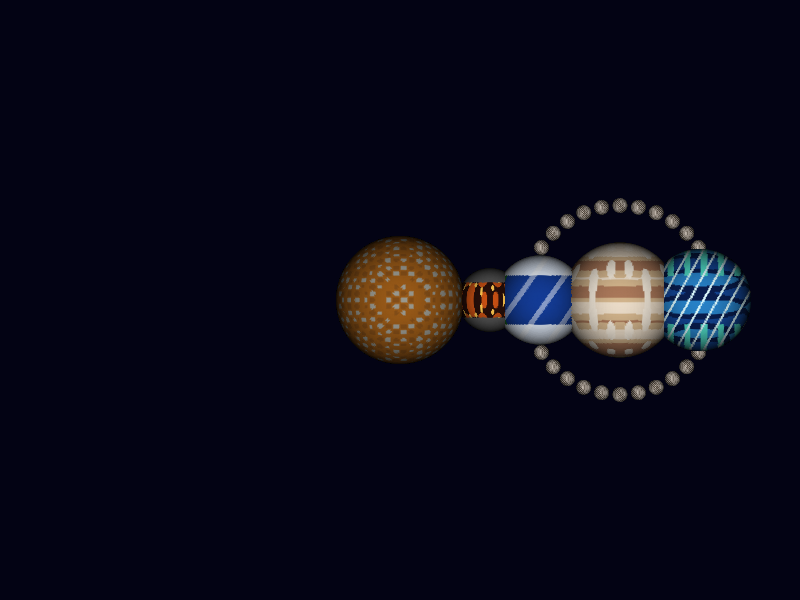
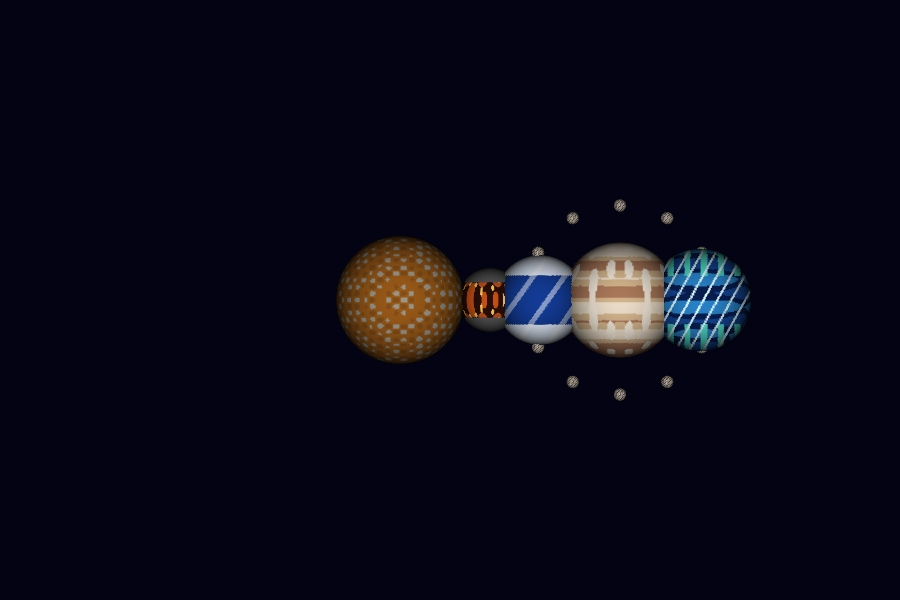
optimización para que vaya mas rapido el programa

Changed region(s): [[0.375, 0.33, 0.9375, 0.69], [0.625, 0.63, 0.6562, 0.66], [0.625, 0.36, 0.6562, 0.39]]

diff --git a/lab5/src/main.rs b/lab5/src/main.rs
@@ -3,6 +3,8 @@ use minifb::{Key, Window, WindowOptions};
 use std::time::Duration;
 use std::f32::consts::PI;
 use std::time::Instant;
+use rayon::prelude::*;
+use crate::fragment::Fragment;
 
 mod framebuffer;
 mod triangle;
@@ -79,15 +81,18 @@ fn create_model_matrix(translation: Vec3, scale: f32, rotation: Vec3) -> Mat4 {
 }
 
 fn render(framebuffer: &mut Framebuffer, uniforms: &Uniforms, vertex_array: &[Vertex]) {
-    // Vertex Shader Stage
-    let mut transformed_vertices = Vec::with_capacity(vertex_array.len());
-    for vertex in vertex_array {
-        let transformed = vertex_shader(vertex, uniforms);
-        transformed_vertices.push(transformed);
-    }
+    // ============================
+    // 1) Vertex Shader (paralelo)
+    // ============================
+    let transformed_vertices: Vec<Vertex> = vertex_array
+        .par_iter()                              // <-- paralelo
+        .map(|vertex| vertex_shader(vertex, uniforms))
+        .collect();
 
-    // Primitive Assembly Stage
-    let mut triangles = Vec::new();
+    // ================================
+    // 2) Primitive Assembly (igual)
+    // ================================
+    let mut triangles: Vec<[Vertex; 3]> = Vec::new();
     for i in (0..transformed_vertices.len()).step_by(3) {
         if i + 2 < transformed_vertices.len() {
             triangles.push([
@@ -98,13 +103,19 @@ fn render(framebuffer: &mut Framebuffer, uniforms: &Uniforms, vertex_array: &[Ve
         }
     }
 
-    // Rasterization Stage
-    let mut fragments = Vec::new();
-    for tri in &triangles {
-        fragments.extend(triangle(&tri[0], &tri[1], &tri[2]));
-    }
+    // ========================================
+    // 3) Rasterización de triángulos (paralelo)
+    // ========================================
+    let fragments: Vec<Fragment> = triangles
+        .par_iter()   // <-- cada triángulo en paralelo
+        .flat_map(|tri| triangle(&tri[0], &tri[1], &tri[2]))
+        .collect();
 
-    // Fragment Processing Stage
+    // ========================================
+    // 4) Escribir fragmentos en el framebuffer
+    //    (secuencial; aquí ya es solo escribir
+    //    en memoria compartida)
+    // ========================================
     for fragment in fragments {
         let x = fragment.position.x as usize;
         let y = fragment.position.y as usize;
@@ -116,11 +127,12 @@ fn render(framebuffer: &mut Framebuffer, uniforms: &Uniforms, vertex_array: &[Ve
     }
 }
 
+
 fn main() {
 
-    let window_width = 800;
+    let window_width = 900;
     let window_height = 600;
-    let framebuffer_width = 800;
+    let framebuffer_width = 900;
     let framebuffer_height = 600;
     let frame_delay = Duration::from_millis(16);
 
@@ -284,8 +296,8 @@ fn main() {
         // ============ SISTEMA DE ANILLOS (ROCAS) ============
         // ====================================================
         let ring_radius = gas_scale * 2.1;
-        let ring_scale = 6.0;
-        let ring_count = 32;
+        let ring_scale = 5.0;
+        let ring_count = 12;
 
         for i in 0..ring_count {
             let angle = (i as f32 / ring_count as f32) * 2.0 * PI + time_sec * 0.15;
